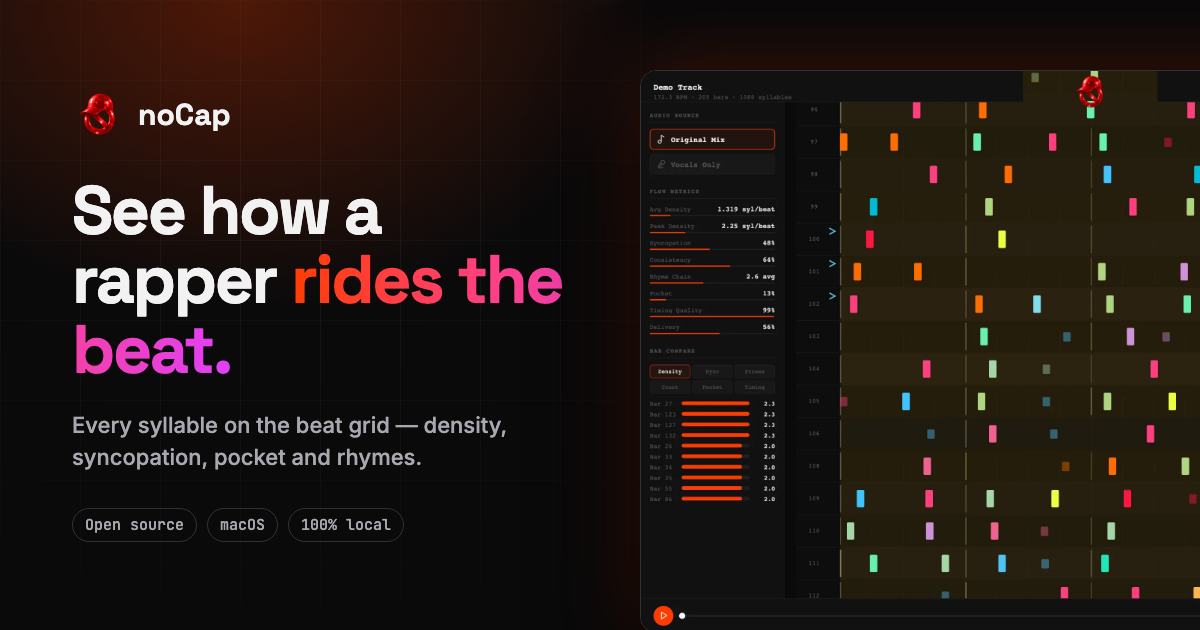
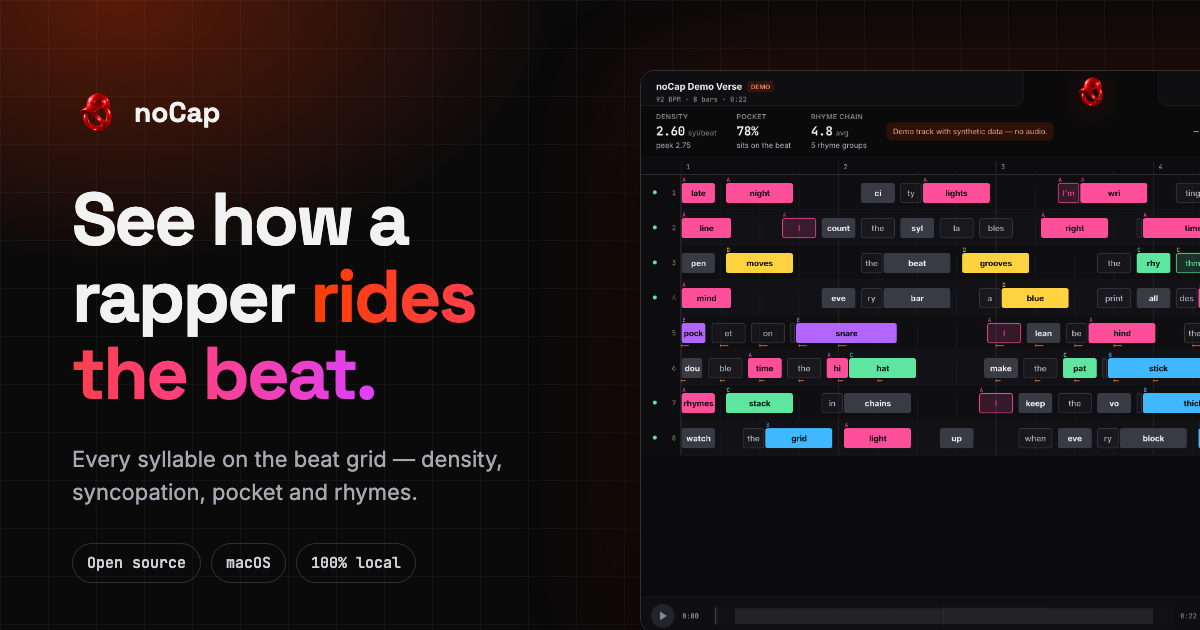
docs: landing page screenshots from the redesigned app
Replaces the feature images and the social card, which still showed the
0.1 interface, with 2x captures of the demo track in the current UI. The
Details feature now describes the Report page; unused old screenshots are
removed.

diff --git a/docs/index.html b/docs/index.html
@@ -179,7 +179,7 @@
             </ul>
           </div>
           <div class="feature-media">
-            <img src="assets/screens/grid.webp" width="1840" height="900" loading="lazy" alt="Close-up of the flow grid: colored syllable blocks positioned within each beat of each bar." />
+            <img src="assets/screens/grid.webp" width="2240" height="1000" loading="lazy" alt="Close-up of the flow grid: syllable blocks with their text, placed within each beat of each bar and colored by rhyme group." />
           </div>
         </article>
 
@@ -195,7 +195,7 @@
             </ul>
           </div>
           <div class="feature-media feature-media-tall">
-            <img src="assets/screens/metrics.webp" width="460" height="1060" loading="lazy" alt="Flow metrics sidebar showing density, syncopation, consistency, rhyme chain, pocket, timing quality and delivery, plus a bar-compare ranking." />
+            <img src="assets/screens/metrics.webp" width="640" height="1280" loading="lazy" alt="Inspector for bar 5: density, sync, pocket, timing and stress against the track average, the bar's lyrics colored by rhyme group, and bars with a similar flow." />
           </div>
         </article>
 
@@ -211,23 +211,23 @@
             </ul>
           </div>
           <div class="feature-media">
-            <img src="assets/screens/rhymes.webp" width="1380" height="900" loading="lazy" alt="Flow grid next to the rhyme groups panel; each group has its own color that matches the syllable blocks." />
+            <img src="assets/screens/rhymes.webp" width="2220" height="1000" loading="lazy" alt="Flow grid with one rhyme group focused, next to the Rhymes panel listing each group's sound, example words and where it appears." />
           </div>
         </article>
 
         <article class="feature feature-flip reveal">
           <div class="feature-copy">
-            <span class="tag tag-amber">Details</span>
+            <span class="tag tag-amber">Report</span>
             <h3>Break it down, section by section.</h3>
-            <p>The Details view puts every metric in one place and splits the track into sections, each with its own density, syncopation and tempo. Click any syllable on the grid to hear exactly what you're looking at.</p>
+            <p>The Report page puts every metric in one place, charts density and pocket across the whole track and splits it into sections. Click any bar on the chart to open it in the flow view, or any syllable on the grid to hear it.</p>
             <ul class="ticks">
               <li>Click-to-play with original mix or vocals only</li>
-              <li>Section table with density, sync, onset and tempo</li>
+              <li>Section table with density, sync, tempo and energy</li>
               <li>Export the flow map as PNG or SVG</li>
             </ul>
           </div>
           <div class="feature-media">
-            <img src="assets/screens/details.webp" width="1800" height="1160" loading="lazy" alt="Details screen with metric cards for density, syncopation, pocket, timing quality, delivery and stress placement, above a per-section table." />
+            <img src="assets/screens/report.webp" width="2520" height="920" loading="lazy" alt="Report page with metric cards for density, syncopation, pocket, timing quality, delivery and stress on beat, above a chart of density and pocket across the track." />
           </div>
         </article>
       </div>
